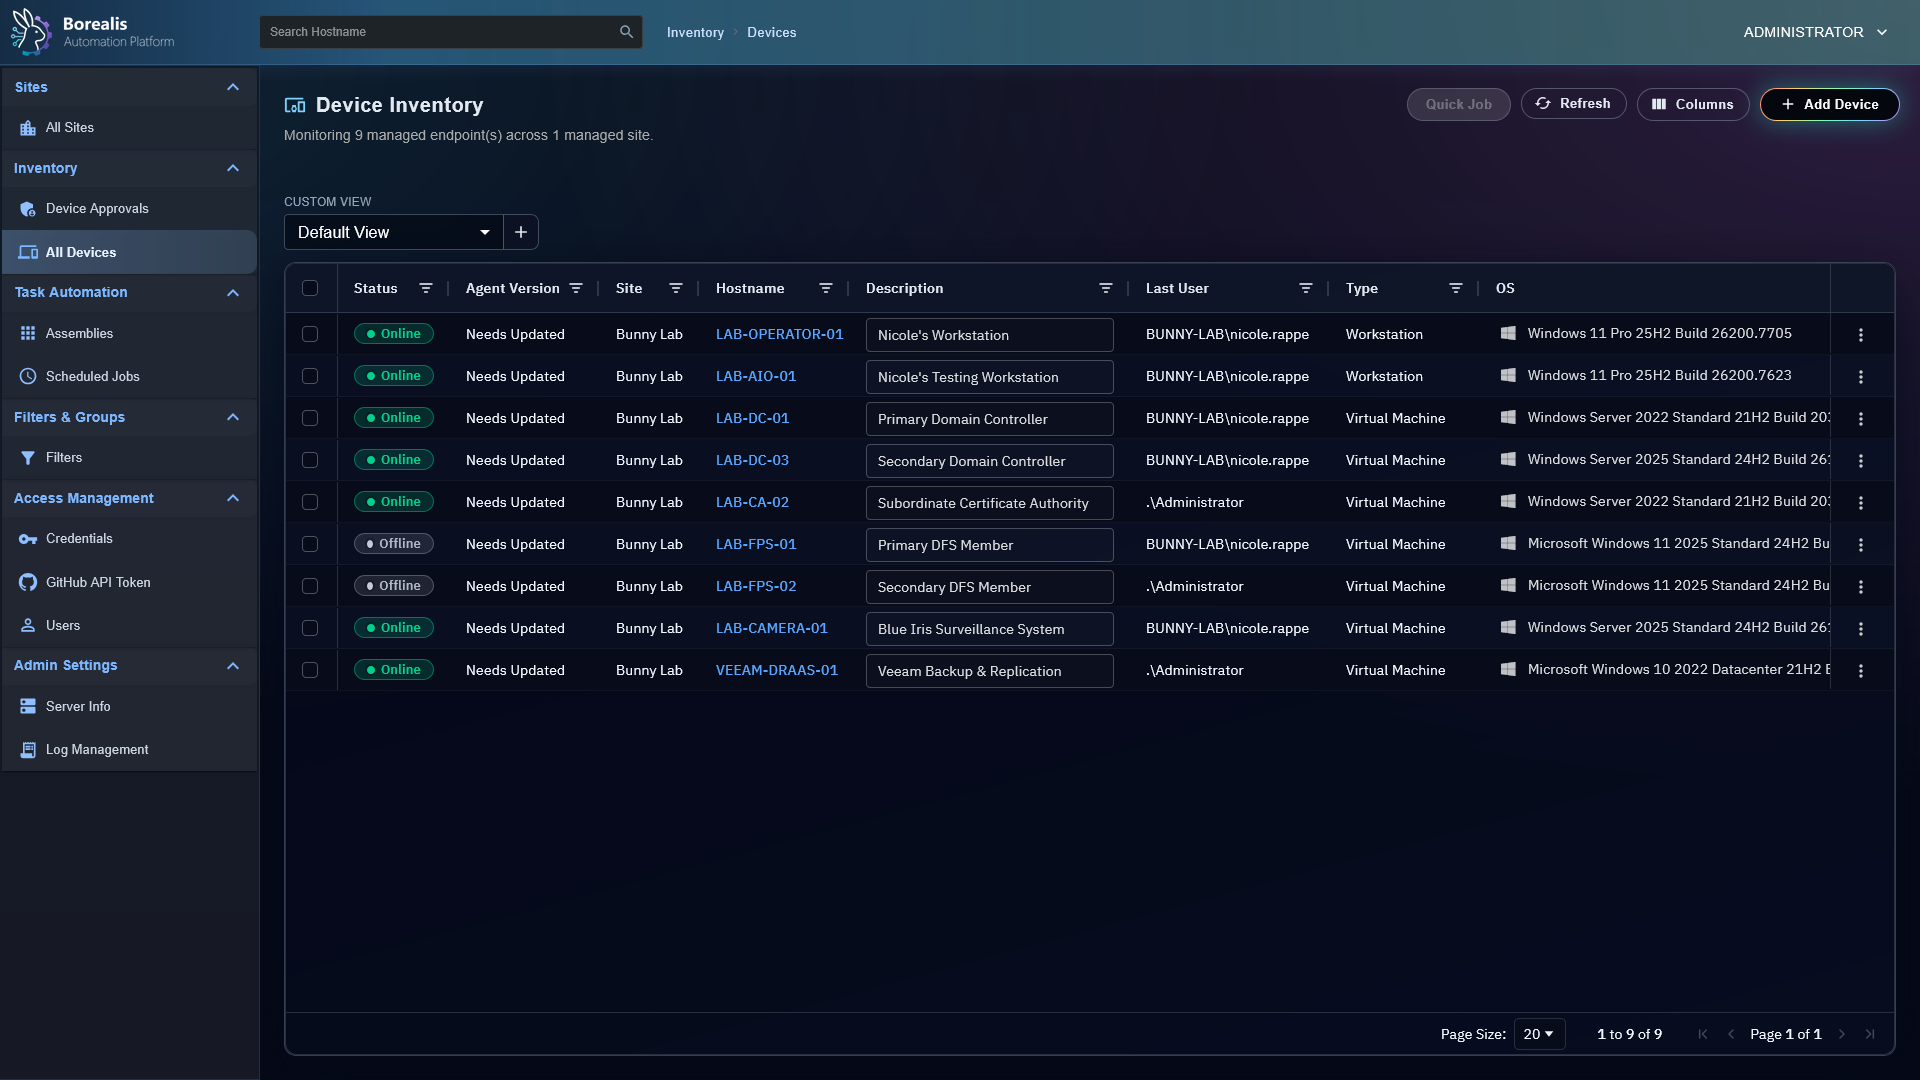
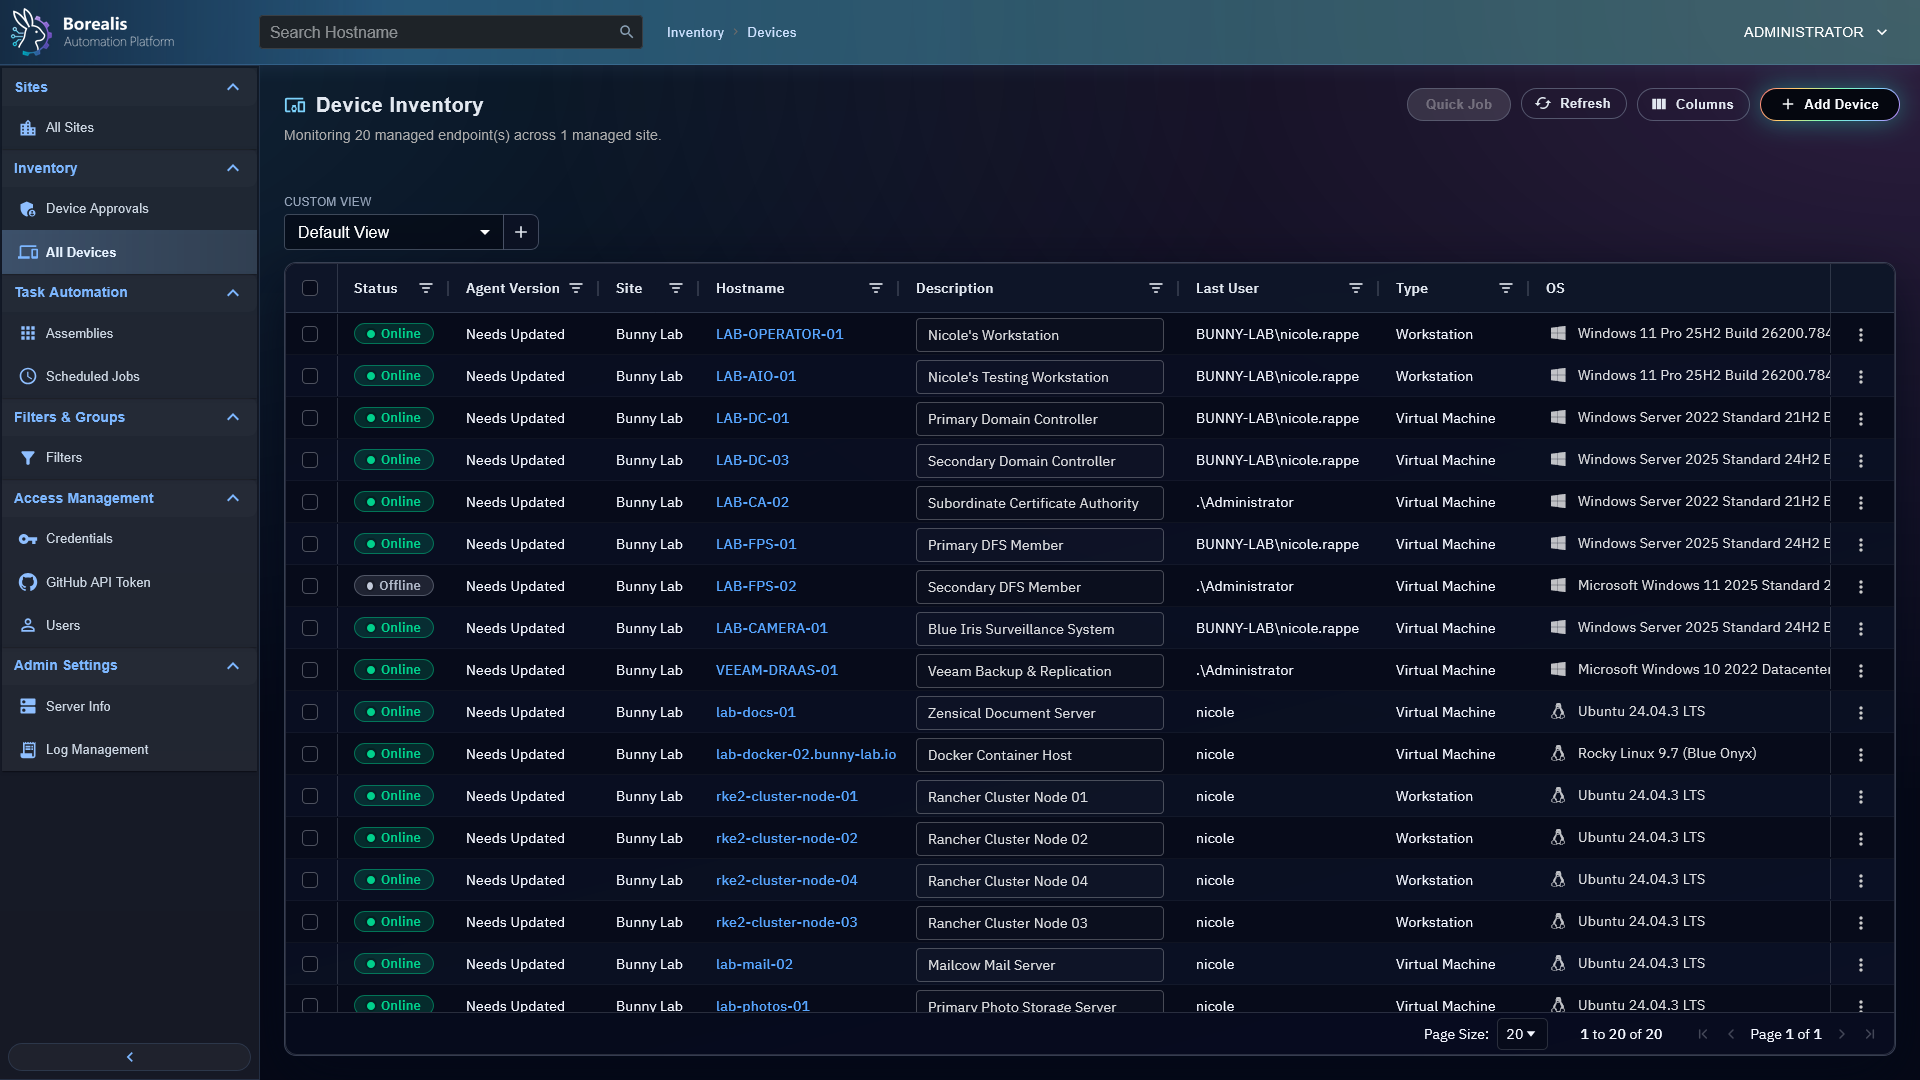
Merged Linux & Windows RemoteShell Agent Roles

diff --git a/Data/Agent/Roles/role_RemoteShell.py b/Data/Agent/Roles/role_RemoteShell.py
@@ -1,11 +1,12 @@
 # ======================================================
-# Data\Agent\Roles\role_RemoteBash.py
-# Description: Bash TCP server for VPN shell access (Engine connects over WireGuard /32).
+# Data\Agent\Roles\role_RemoteShell.py
+# Description: Cross-platform remote shell TCP server for VPN shell access.
+# Engine connects over WireGuard /32.
 #
 # API Endpoints (if applicable): None
 # ======================================================
 
-"""VPN Bash server for the WireGuard tunnel."""
+"""VPN remote shell server for the WireGuard tunnel (Windows PowerShell + Linux Bash)."""
 
 from __future__ import annotations
 
@@ -26,9 +27,8 @@ try:
 except Exception:
     pty = None
 
-ROLE_NAME = "RemoteBash"
+ROLE_NAME = "RemoteShell"
 ROLE_CONTEXTS = ["system"]
-IS_LINUX = platform.system().lower() == "linux"
 
 
 def _log_path() -> Path:
@@ -69,6 +69,37 @@ def _resolve_shell_port() -> int:
     return value
 
 
+def _detect_shell_kind() -> str:
+    if os.name == "nt":
+        return "powershell"
+    if platform.system().lower() == "linux":
+        return "bash"
+    return ""
+
+
+def _resolve_powershell_binary() -> str:
+    candidates = []
+    override = (os.environ.get("BOREALIS_REMOTE_POWERSHELL_BIN") or "").strip()
+    if override:
+        candidates.append(override)
+    try:
+        system_root = os.environ.get("SystemRoot") or r"C:\Windows"
+        candidates.append(os.path.join(system_root, "System32", "WindowsPowerShell", "v1.0", "powershell.exe"))
+    except Exception:
+        pass
+    candidates.append("powershell.exe")
+    for candidate in candidates:
+        if not candidate:
+            continue
+        if candidate.lower().endswith(".exe"):
+            if os.path.isfile(candidate):
+                return candidate
+        else:
+            # Keep command-name fallback (powershell.exe) in case PATH resolves it.
+            return candidate
+    return "powershell.exe"
+
+
 def _resolve_bash_binary() -> str:
     # Allow overrides, then prefer bash, then sh as a fallback.
     candidates = []
@@ -83,9 +114,10 @@ def _resolve_bash_binary() -> str:
 
 
 class ShellSession:
-    def __init__(self, conn: socket.socket, address: tuple[str, int], shell_bin: str) -> None:
+    def __init__(self, conn: socket.socket, address: tuple[str, int], shell_kind: str, shell_bin: str) -> None:
         self.conn = conn
         self.address = address
+        self.shell_kind = shell_kind
         self.shell_bin = shell_bin
         self.proc: Optional[subprocess.Popen] = None
         self.master_fd: Optional[int] = None
@@ -98,7 +130,34 @@ class ShellSession:
 
     def start(self) -> None:
         # Spawn an interactive shell process and bridge stdin/stdout.
-        _write_log(f"Shell session starting for {self.address[0]}:{self.address[1]}")
+        _write_log(f"Shell session starting for {self.address[0]}:{self.address[1]} type={self.shell_kind}")
+        if self.shell_kind == "powershell":
+            self._start_powershell()
+            return
+        if self.shell_kind == "bash":
+            self._start_bash()
+            return
+        self._send_stdout(b"[borealis] Unsupported remote shell platform.\n")
+        self.close()
+
+    def _start_powershell(self) -> None:
+        try:
+            self.proc = subprocess.Popen(
+                [self.shell_bin, "-NoLogo", "-NoProfile", "-NoExit", "-Command", "-"],
+                stdin=subprocess.PIPE,
+                stdout=subprocess.PIPE,
+                stderr=subprocess.STDOUT,
+                creationflags=getattr(subprocess, "CREATE_NO_WINDOW", 0),
+                bufsize=0,
+            )
+        except Exception as exc:
+            self._send_stdout(f"[borealis] Failed to start PowerShell: {exc}\n".encode("utf-8", errors="replace"))
+            self.close()
+            return
+        threading.Thread(target=self._reader_loop_powershell, daemon=True).start()
+        self._writer_loop_powershell()
+
+    def _start_bash(self) -> None:
         if not self.shell_bin:
             self._send_stdout(b"[borealis] No bash-compatible shell found on this agent.\n")
             self.close()
@@ -129,7 +188,7 @@ class ShellSession:
                 bufsize=0,
             )
         except Exception as exc:
-            self._send_stdout(f"[borealis] Failed to start shell: {exc}\n".encode("utf-8", errors="replace"))
+            self._send_stdout(f"[borealis] Failed to start bash shell: {exc}\n".encode("utf-8", errors="replace"))
             self.close()
             return
         finally:
@@ -139,8 +198,8 @@ class ShellSession:
                 except Exception:
                     pass
 
-        threading.Thread(target=self._reader_loop, daemon=True).start()
-        self._writer_loop()
+        threading.Thread(target=self._reader_loop_bash, daemon=True).start()
+        self._writer_loop_bash()
 
     def _send_stdout(self, chunk: bytes) -> None:
         if not chunk:
@@ -153,8 +212,20 @@ class ShellSession:
         except Exception as exc:
             _write_log(f"Shell stdout send failed: {exc}")
 
-    def _reader_loop(self) -> None:
-        # Forward shell stdout/stderr to the engine as JSONL payloads.
+    def _reader_loop_powershell(self) -> None:
+        if not self.proc or not self.proc.stdout:
+            return
+        try:
+            while not self._stop.is_set():
+                chunk = self.proc.stdout.readline()
+                if not chunk:
+                    break
+                self._send_stdout(chunk)
+                _write_log(f"Shell stdout forwarded bytes={len(chunk)}")
+        except Exception as exc:
+            _write_log(f"Shell stdout error: {exc}")
+
+    def _reader_loop_bash(self) -> None:
         if self.master_fd is None:
             return
         try:
@@ -182,8 +253,48 @@ class ShellSession:
         except Exception as exc:
             _write_log(f"Shell stdout error: {exc}")
 
-    def _writer_loop(self) -> None:
-        # Read JSONL stdin from the engine and feed it into the shell.
+    def _writer_loop_powershell(self) -> None:
+        # Read JSONL stdin from the engine and feed it into PowerShell.
+        buffer = b""
+        try:
+            while not self._stop.is_set():
+                try:
+                    data = self.conn.recv(4096)
+                except Exception as exc:
+                    _write_log(f"Shell stdin recv error: {exc}")
+                    break
+                if not data:
+                    break
+                buffer += data
+                while b"\n" in buffer:
+                    line, buffer = buffer.split(b"\n", 1)
+                    if not line:
+                        continue
+                    try:
+                        msg = json.loads(line.decode("utf-8"))
+                    except Exception:
+                        continue
+                    if msg.get("type") == "stdin":
+                        payload = msg.get("data") or ""
+                        if self.proc and self.proc.stdin:
+                            try:
+                                decoded = _b64decode(str(payload))
+                                self.proc.stdin.write(decoded)
+                                self.proc.stdin.flush()
+                                self.input_messages += 1
+                                self.input_bytes += len(decoded)
+                                _write_log(f"Shell stdin received bytes={len(decoded)}")
+                            except Exception:
+                                _write_log("Shell stdin write failed.")
+                    if msg.get("type") == "close":
+                        self._stop.set()
+                        _write_log("Shell close requested by engine.")
+                        break
+        finally:
+            self.close()
+
+    def _writer_loop_bash(self) -> None:
+        # Read JSONL stdin from the engine and feed it into bash/sh.
         buffer = b""
         try:
             while not self._stop.is_set():
@@ -261,16 +372,18 @@ class ShellSession:
 
 
 class ShellServer:
-    def __init__(self, host: str = "0.0.0.0", port: Optional[int] = None) -> None:
+    def __init__(self, shell_kind: str, shell_bin: str, host: str = "0.0.0.0", port: Optional[int] = None) -> None:
         self.host = host
         self.port = port or _resolve_shell_port()
-        self.shell_bin = _resolve_bash_binary()
+        self.shell_kind = shell_kind
+        self.shell_bin = shell_bin
         self._thread = threading.Thread(target=self._serve, daemon=True)
         self._thread.start()
         _write_log(
-            "VPN shell server listening on {0}:{1} shell={2}".format(
+            "VPN shell server listening on {0}:{1} type={2} shell={3}".format(
                 self.host,
                 self.port,
+                self.shell_kind,
                 self.shell_bin or "missing",
             )
         )
@@ -289,7 +402,7 @@ class ShellServer:
                     conn.close()
                     continue
                 _write_log(f"Accepted shell connection from {remote_ip}")
-                session = ShellSession(conn, addr, self.shell_bin)
+                session = ShellSession(conn, addr, self.shell_kind, self.shell_bin)
                 threading.Thread(target=session.start, daemon=True).start()
 
 
@@ -298,10 +411,16 @@ class Role:
         # Start the shell server immediately when the role loads.
         self.ctx = ctx
         self.server = None
-        if not IS_LINUX:
-            _write_log("RemoteBash role skipped on non-Linux platform.")
+
+        shell_kind = _detect_shell_kind()
+        if shell_kind == "powershell":
+            self.server = ShellServer(shell_kind="powershell", shell_bin=_resolve_powershell_binary())
             return
-        self.server = ShellServer()
+        if shell_kind == "bash":
+            self.server = ShellServer(shell_kind="bash", shell_bin=_resolve_bash_binary())
+            return
+
+        _write_log(f"RemoteShell role skipped on unsupported platform '{platform.system()}'.")
 
     def register_events(self) -> None:
         return
